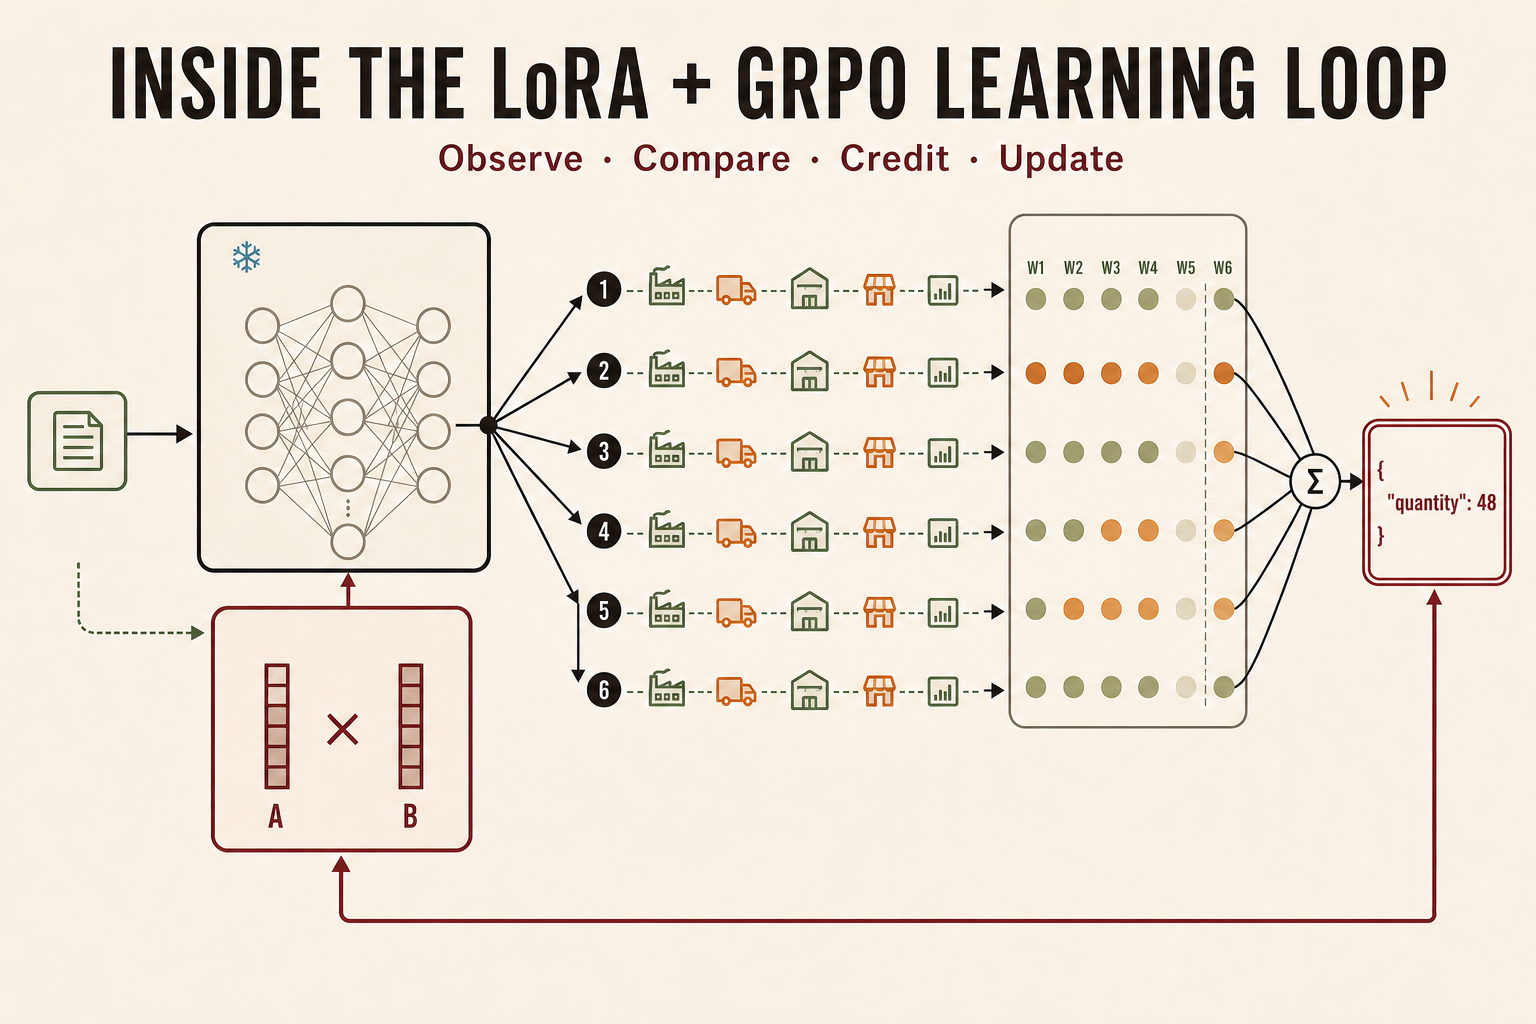
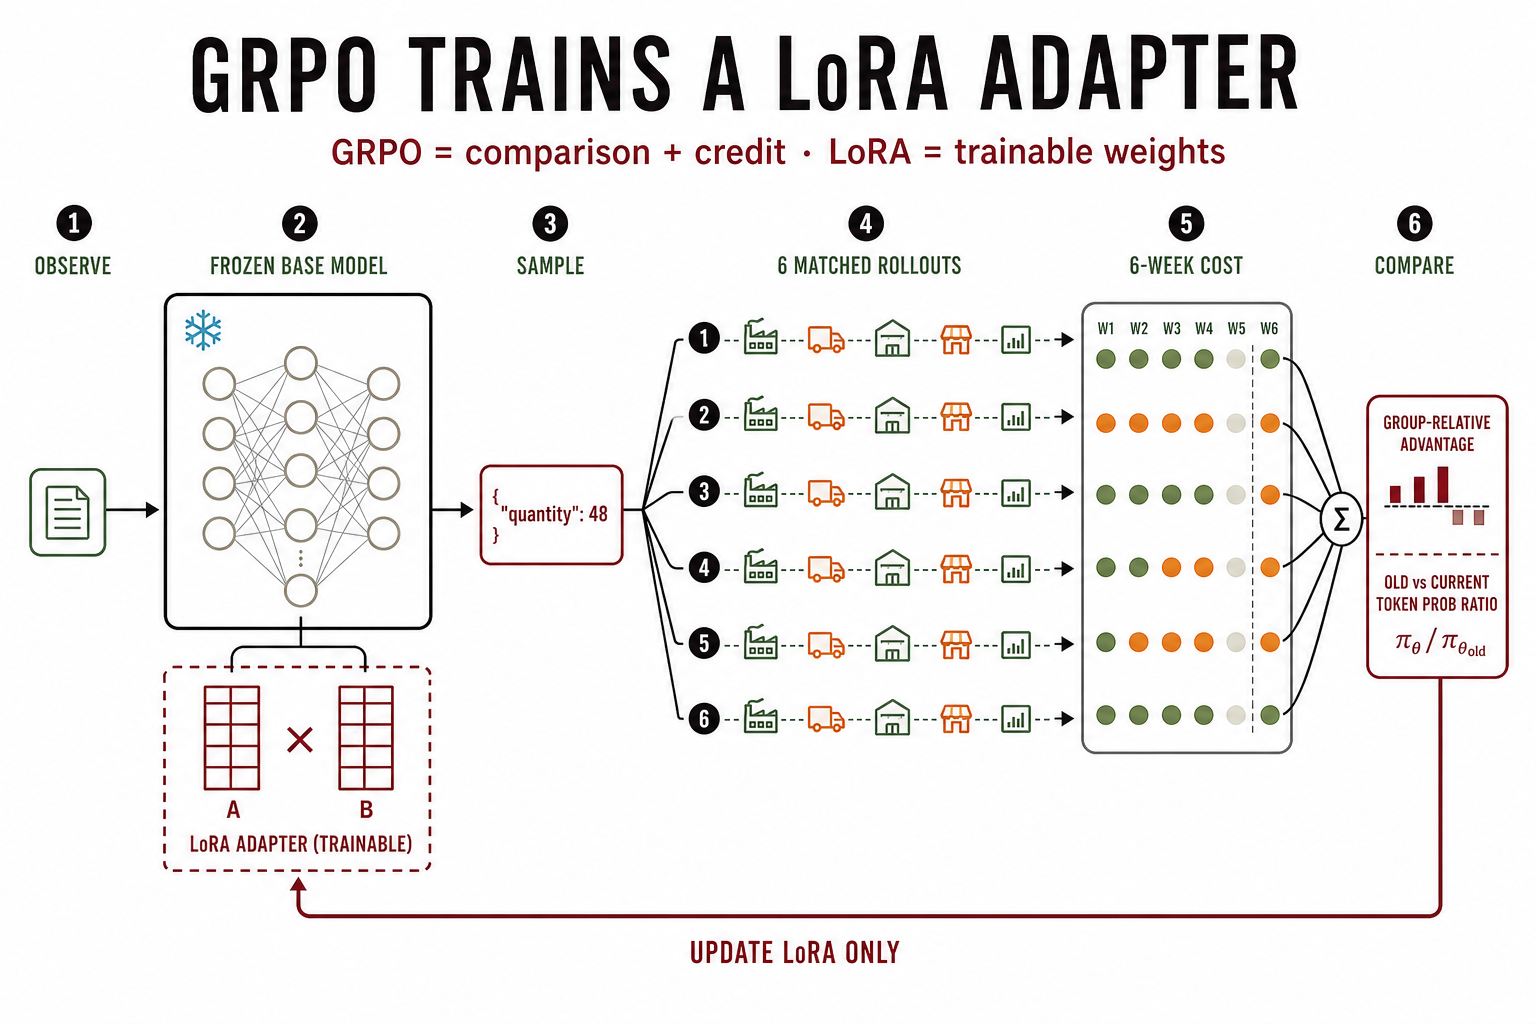
Refine LoRA GRPO README graphic

diff --git a/README.md b/README.md
@@ -109,7 +109,15 @@ as small-sample.
 
 **[▶ Explore the LoRA + GRPO learning loop](https://constantinvictorbeatertel.github.io/beer_distribution_RL/lora-grpo/)**
 
-[![Inside the LoRA and GRPO learning loop: a frozen base model, six matched rollouts, a six-week credit window, and a trainable low-rank adapter](static_web/public/lora-grpo/og.png)](https://constantinvictorbeatertel.github.io/beer_distribution_RL/lora-grpo/)
+<p align="center">
+  <a href="https://constantinvictorbeatertel.github.io/beer_distribution_RL/lora-grpo/">
+    <img src="static_web/public/lora-grpo/og.png" width="720" alt="GRPO compares six matched rollouts and assigns delayed credit; the resulting optimizer step updates only the LoRA adapter while the Qwen base model remains frozen">
+  </a>
+</p>
+
+*GRPO supplies the comparison and credit-assignment objective; LoRA is the
+trainable parameterization that receives those gradients while the base model
+stays frozen.*
 
 [`scripts/train_live_y_domain_randomized_grpo_v1.py`](scripts/train_live_y_domain_randomized_grpo_v1.py)
 trains a LoRA adapter on `Qwen/Qwen3.5-4B` with critic-free multi-turn
